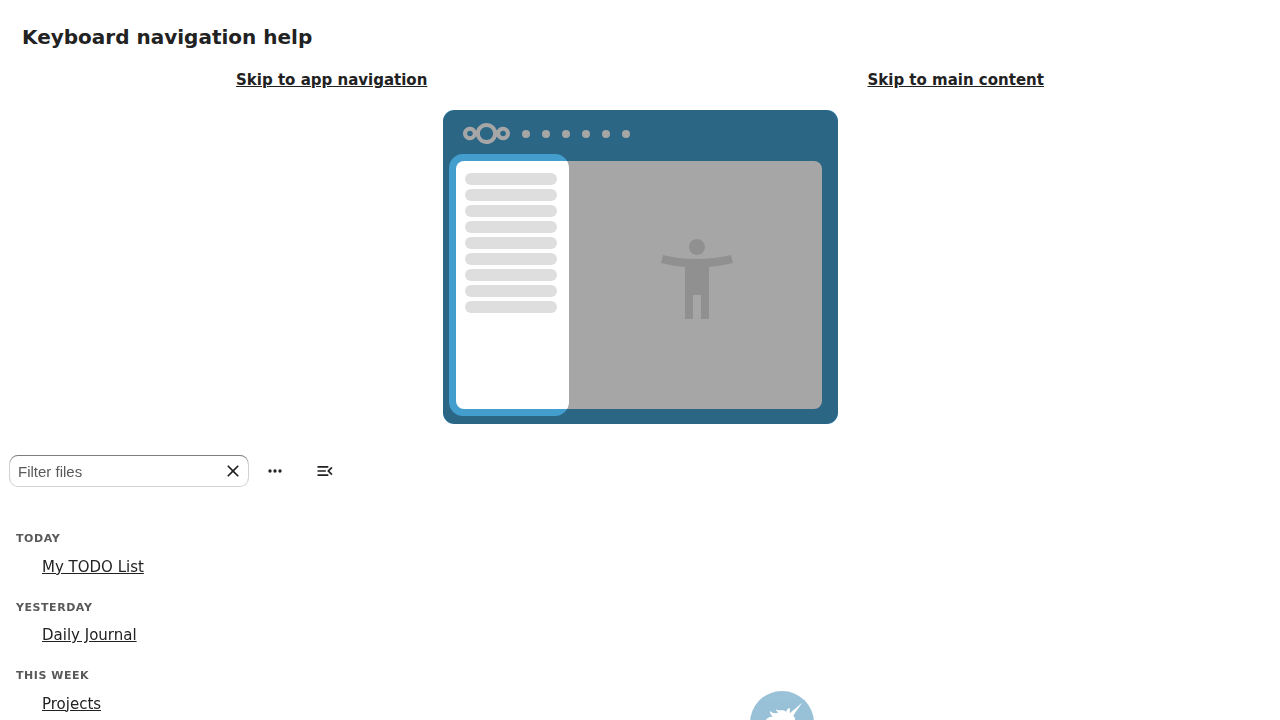
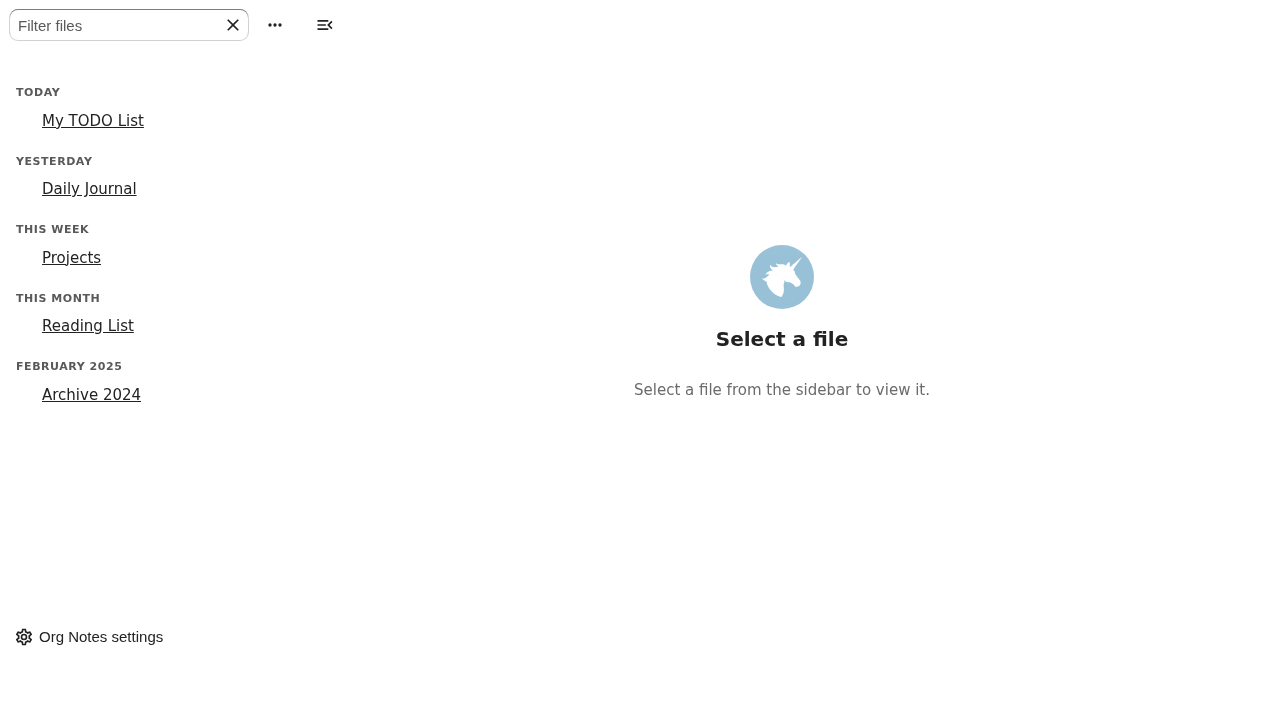
Hide #skip-actions in Storybook; update screenshots
NcContent's skip-navigation Teleport renders into #skip-actions.  On a real
Nextcloud server that element is positioned off-screen by server CSS; without
that rule the widget appeared at the top of every App story screenshot.

Added the equivalent hide rule to the Storybook baseline in nextcloud-theme.css
and regenerated all 15 screenshots.

https://claude.ai/code/session_019AXpJx559pa6rP5adguNCb

diff --git a/.storybook/nextcloud-theme.css b/.storybook/nextcloud-theme.css
@@ -153,3 +153,12 @@ body {
 	background-color: var(--color-main-background);
 	margin: 0;
 }
+
+/* #skip-actions is the Teleport target for NcContent's skip-navigation widget.
+ * On a real Nextcloud server it is positioned off-screen by server CSS and only
+ * becomes visible on :focus-within.  Replicate that here so it stays hidden. */
+#skip-actions {
+	position: fixed;
+	top: -9999px;
+	inset-inline-start: -9999px;
+}